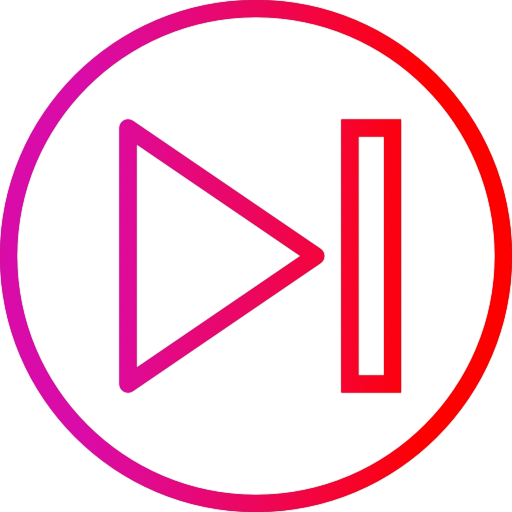
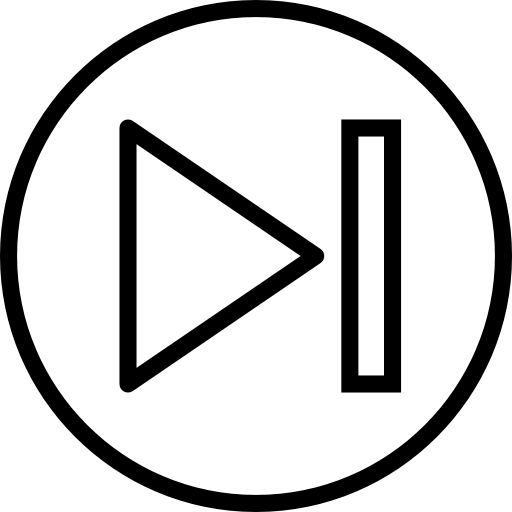
mejoras de calidad

Changed region(s): [[0.0, 0.0, 1.0, 1.0], [0.2188, 0.2188, 0.8125, 0.7812]]

diff --git a/public/js/player.js b/public/js/player.js
@@ -41,17 +41,13 @@ function setCover(url) {
     document.getElementById("imagen").src = imageUrl;
 }
 function changeIconPause() {
-    console.log("work")
-    play.style.background = "url('./public/iconos/pause-1.png')";
-    play.style.backgroundSize = "cover";
-    play.style.backgroundPosition = "center";
+    play.classList.remove('play');
+    play.classList.add('pause');
 }
 
 function changeIconPlay() {
-    console.log("work")
-    play.style.background = "url('./public/iconos/play-button-1.png')";
-    play.style.backgroundSize = "cover";
-    play.style.backgroundPosition = "center";
+    play.classList.remove('pause');
+    play.classList.add('play');
 }
 
 function getTime() {
@@ -81,14 +77,11 @@ izq.addEventListener('click', ()=>{
         sound[pos].stop();
         pos = pos -1;
         sound[pos].play();
-        console.log("izq")
         setCover(list[pos])
-        play.value = "Pause"
     }
     else{
         sound[pos].stop();
         sound[pos].play();
-        console.log("same")
     }
     changeIconPause();
     changePosRangeBar();
@@ -103,8 +96,6 @@ play.addEventListener('click', ()=>{
     else{
         sound[pos].play();
         changePosRangeBar();
-        play.value = "Pause"
-        console.log('work');
         changeIconPause();
     }
 })
@@ -122,12 +113,9 @@ der.addEventListener('click', ()=>{
         sound[pos].stop();
         pos = pos +1;
         sound[pos].play();
-        console.log("next")
         setCover(list[pos])
-        play.value = "Pause"
     }
     else{
-        console.log("same")
         sound[pos].stop();
         sound[pos].play();
     }

diff --git a/index.html b/index.html
@@ -19,7 +19,7 @@
             <img src="./public/iconos/music-player-1.png" alt="" class="icono">
         </div>
         <div id="play-op" class="opcion centro">
-            <img src="./public/iconos/play-button-1.png" alt="" class="icono">
+            <img src="./public/iconos/play-button.png" alt="" class="icono">
         </div> 
     </div>
     <div class="contenido">
@@ -79,7 +79,7 @@
                 </div>
                 <div class="center wraped">                
                     <div class="caja-l centro"><div  id="izq"></div></div>
-                    <div class="caja-c centro"><div  id="play"></div></div>
+                    <div class="caja-c centro"><div  id="play" class="play"></div></div>
                     <div class="caja-l centro"><div  id="der"></div></div>            
                 </div>
                 <div class="right centro">

diff --git a/public/css/play-cont.css b/public/css/play-cont.css
@@ -53,12 +53,13 @@
 }
 
 #stop:hover, #izq:hover, #der:hover, #play:hover{
-    background-color:cadetblue;
+    background-color:deeppink;
 }
 
 #stop, #izq, #der {
     width: 50px;
     height: 50px;
+    filter: invert();
 }
 
 #stop{
@@ -73,10 +74,19 @@
     background-position: center;
 }
 
-#play{
+.play{
     width: 70px;
     height: 70px;
+    filter: invert();
     background: url('../iconos/play-button-1.png');
+    background-size: cover;
+    background-position: center;
+}
+.pause{
+    width: 70px;
+    height: 70px;
+    filter: invert();
+    background: url('../iconos/pause-1.png');
     background-size: cover;
     background-position: center;
 }

diff --git a/on-load.js b/on-load.js
@@ -28,7 +28,7 @@ function setListaMusica(music) {
         cell1.innerHTML = i+1;
         cell2.innerHTML = music[i];
         cell3.innerHTML = "mp3";
-        cell4.classList.add("repro");
-        cell4.classList.add("repro-"+i);
+        cell4.classList.add("repro-2");
+        //cell4.classList.add("repro-"+i);
     }
 }

diff --git a/public/css/contenido.css b/public/css/contenido.css
@@ -41,6 +41,14 @@
     background-position: center;
     background-repeat: no-repeat;
 }
+.repro-2{
+    width: 50px;
+    height: 50px;
+    background: url('../iconos/play-button.png');
+    background-size: 35px;
+    background-position: center;
+    background-repeat: no-repeat;
+}
 
 td{
     height: 50px;
